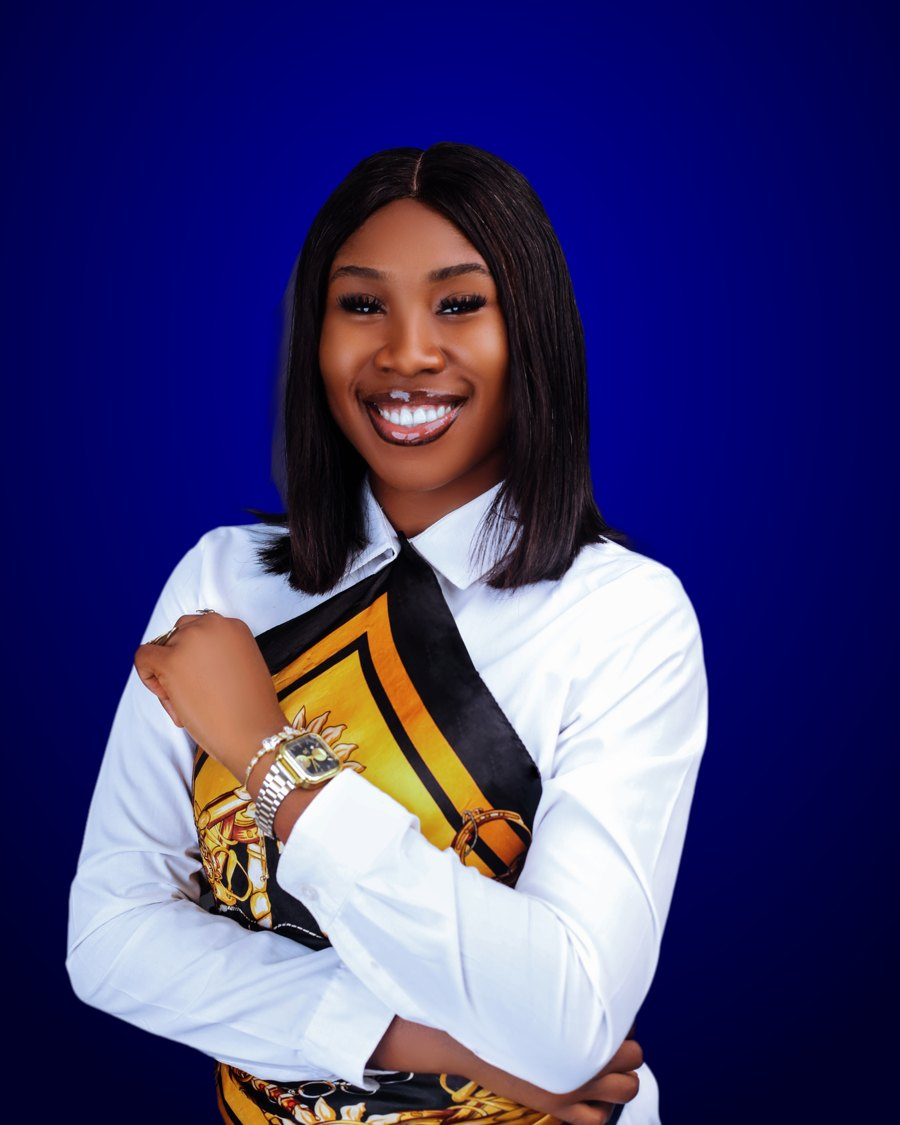
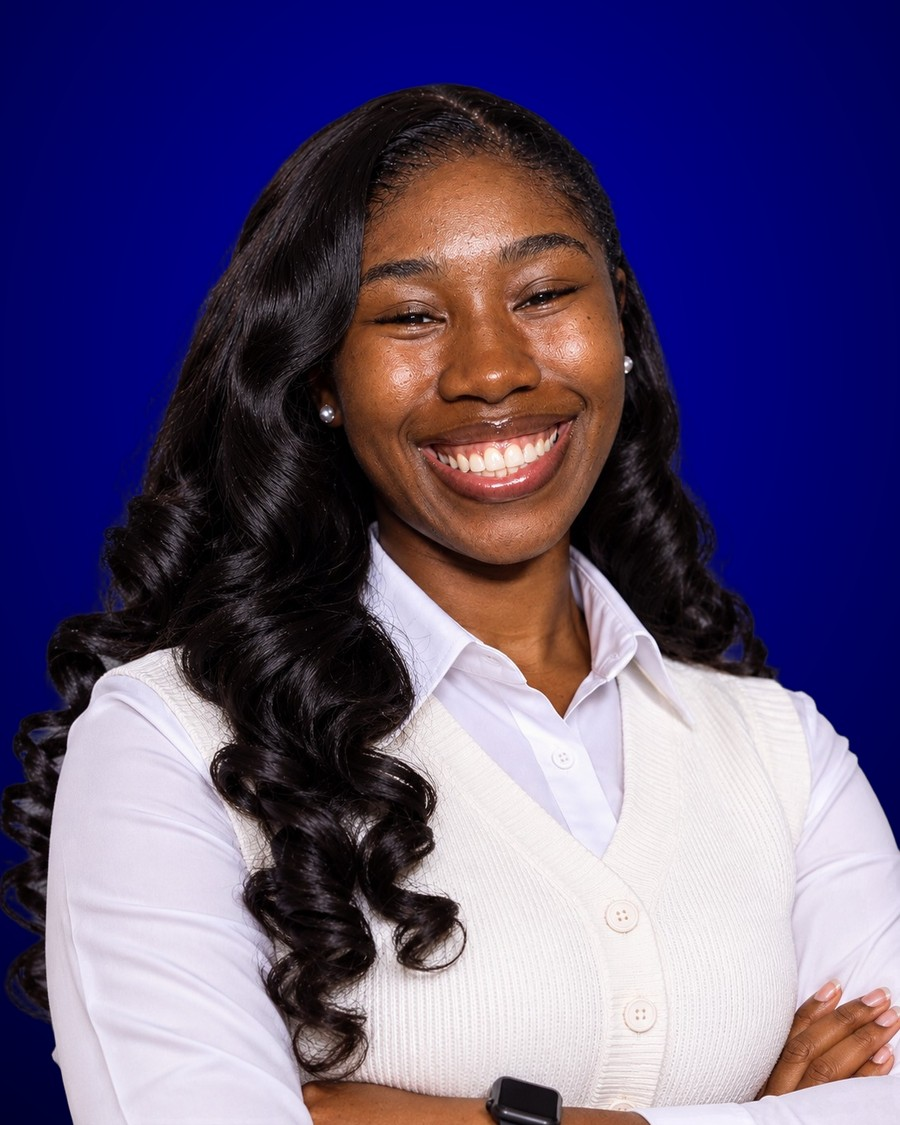
Update headshot and align portfolio with LinkedIn
- New headshot on royal blue background
- Happivibe reframed around client support and retention calls
- Remove L. C. Obodo role and its 50% stat
- Sensory-Safe Cuts title is now Operations Supervisor
- Skill2Income title is now Onboarding & Digital Support Trainer
- Stat rows show 3 items (5+, 200+, 70%); 70% noted as own business
- Hide the empty CV button

Claude-Session: https://claude.ai/code/session_01M4Q3QznmXPooaf4SnWtG98

diff --git a/index.html b/index.html
@@ -71,7 +71,6 @@
       <div><b>5+</b><span>years in client-facing roles</span></div>
       <div><b>200+</b><span>students taught as a coach</span></div>
       <div><b>70%</b><span>revenue growth with a CRM I built</span></div>
-      <div><b>50%</b><span>less admin through automation</span></div>
     </div>
 
     <div class="sub">
@@ -114,7 +113,7 @@
       <div class="card story">
         <h2>Hi, I'm Claire. I keep customers <em>getting value.</em></h2>
         <p class="big">I've spent 5+ years in client-facing roles across customer support, client onboarding and operations: owning the relationship after the sale, making sure clients got what they were promised, and fixing the process when they didn't.</p>
-        <p>At Claire's Unique Cereals I built the CRM and ran the proactive follow-up that grew revenue by 70%. At L. C. Obodo and Co. I automated the admin that slowed the team down and cut overhead by 50%. That is the heart of Customer Success: know what each customer needs, watch the signals, and step in before a small gap turns into churn.</p>
+        <p>At Claire's Unique Cereals, my own business, I built the CRM and ran the proactive follow-up that grew revenue by 70%. That is the heart of Customer Success: know what each customer needs, watch the signals, and step in before a small gap turns into churn.</p>
         <p>As a coach at Skill2Income Academy, I've taught 200+ students the tools behind modern client work. In my case studies, I've designed health scores, customer segments and CSM automations in HubSpot and Zoho CRM.</p>
       </div>
       <div class="card quote-card">
@@ -144,7 +143,6 @@
         <div><b>5+</b><span class="what">years in client-facing roles</span><small>Support · Onboarding · Ops</small></div>
         <div><b>200+</b><span class="what">students taught the tools behind modern client work</span><small>Skill2Income Academy</small></div>
         <div><b>70%</b><span class="what">revenue increase with proactive follow-up and a CRM I built</span><small>Claire's Unique Cereals</small></div>
-        <div><b>50%</b><span class="what">cut in admin overhead through process automation</span><small>L. C. Obodo and Co.</small></div>
       </div>
     </div>
   </div>
@@ -354,10 +352,9 @@
     </div>
     <div class="exp-wrap">
       <ol class="roles">
-        <li><span class="when">Jan 2026 – Now</span><div><h3>VA Coach and Digital Support Trainer</h3><div class="org">Skill2Income Academy</div><p>Coach and teach 200+ students the digital and client-support tools they use with clients.</p></div></li>
-        <li><span class="when">Dec 2024 – Now</span><div><h3>Executive Assistant and Operations Supervisor</h3><div class="org">Sensory-Safe Cuts (non-profit)</div><p>Support leadership and keep day-to-day operations running.</p></div></li>
-        <li><span class="when">May 2020 – Oct 2025</span><div><h3>Call Handler and Student Lead Support</h3><div class="org">Happivibe Services</div><p>Handled inbound calls and supported student leads.</p></div></li>
-        <li><span class="when">Mar 2022 – Dec 2024</span><div><h3>Admin Assistant</h3><div class="org">L. C. Obodo and Co.</div><p>Cut admin overhead by 50% through process automation.</p></div></li>
+        <li><span class="when">Jan 2026 – Now</span><div><h3>Onboarding &amp; Digital Support Trainer</h3><div class="org">Skill2Income Academy · Contract, Remote</div><p>Train 200+ learners on CRM software, remote collaboration tools and documentation workflows. I run onboarding and live sessions end to end, and write walkthrough guides that turn complex technical steps into clear ones for non-technical users.</p></div></li>
+        <li><span class="when">Dec 2024 – Now</span><div><h3>Operations Supervisor</h3><div class="org">Sensory-Safe Cuts (non-profit)</div><p>Run day-to-day operations, scheduling and internal communication, and keep leadership and board members aligned with timely updates, meeting summaries and action-item trackers.</p></div></li>
+        <li><span class="when">May 2020 – Oct 2025</span><div><h3>Client Support and Retention Calls</h3><div class="org">Happivibe Services · Freelance</div><p>Trusted by clients to handle their inbound and outbound customer calls, resolving issues calmly and following up so their customers stayed satisfied and kept coming back. Later ran admissions support for a tech sales training company: qualified prospective students and guided applicants through enrolment, which helped improve admissions conversion.</p></div></li>
         <li><span class="when">Feb 2022 – Mar 2024</span><div><h3>Customer Support Rep and Marketing Lead</h3><div class="org">Claire's Unique Cereals</div><p>Built a CRM and ran proactive customer follow-up that grew revenue by 70%.</p></div></li>
       </ol>
       <div class="side-stack">

diff --git a/style.css b/style.css
@@ -193,16 +193,16 @@ h1 em, h2 em, .grad {
 
 /* ---------- Proof ---------- */
 .proof .glow.blue { width: 520px; height: 520px; left: 30%; top: 10%; opacity: .22; }
-.numbers { display: grid; grid-template-columns: repeat(4, 1fr); border: 1px solid var(--line); border-radius: var(--radius); background: rgba(0,0,46,.6); overflow: hidden; }
+.numbers { display: grid; grid-template-columns: repeat(3, 1fr); border: 1px solid var(--line); border-radius: var(--radius); background: rgba(0,0,46,.6); overflow: hidden; }
 .numbers > div { padding: 40px 30px; border-right: 1px solid var(--line); }
 .numbers > div:last-child { border-right: 0; }
 .numbers b { display: block; font-family: var(--sans); font-weight: 800; letter-spacing: -0.05em; font-size: clamp(3.4rem, 6vw, 5rem); line-height: 1; background: var(--grad); -webkit-background-clip: text; background-clip: text; color: transparent; margin-bottom: 18px; padding-right: .05em; }
 .numbers .what { color: #fff; font-weight: 500; line-height: 1.45; display: block; }
 .numbers small { display: block; margin-top: 14px; font-family: var(--mono); font-size: .7rem; letter-spacing: .12em; text-transform: uppercase; color: var(--muted); }
 @media (max-width: 900px) {
-  .numbers { grid-template-columns: 1fr 1fr; }
-  .numbers > div:nth-child(2) { border-right: 0; }
-  .numbers > div:nth-child(-n+2) { border-bottom: 1px solid var(--line); }
+  .numbers { grid-template-columns: 1fr; }
+  .numbers > div { border-right: 0; border-bottom: 1px solid var(--line); }
+  .numbers > div:last-child { border-bottom: 0; }
 }
 @media (max-width: 480px) {
   .numbers { grid-template-columns: 1fr; }
@@ -499,7 +499,7 @@ html, body { overflow-x: clip; }
 }
 .photo-tag i { width: 8px; height: 8px; border-radius: 50%; background: var(--lime); box-shadow: 0 0 10px var(--lime); }
 
-.stat-strip { display: grid; grid-template-columns: repeat(4, 1fr); gap: 14px; margin-top: 18px; }
+.stat-strip { display: grid; grid-template-columns: repeat(3, 1fr); gap: 14px; margin-top: 18px; }
 .stat-strip div { border: 1px solid var(--line); background: var(--surface); border-radius: 18px; padding: 22px 24px; }
 .stat-strip b { font-family: var(--sans); font-size: 2.2rem; font-weight: 800; letter-spacing: -0.04em; color: var(--lime); display: block; line-height: 1; margin-bottom: 8px; }
 .stat-strip span { color: var(--muted); font-size: .9rem; line-height: 1.4; display: block; }
@@ -573,6 +573,7 @@ html, body { overflow-x: clip; }
   .photo-card { order: -1; max-width: 260px; margin: 14px auto 0 14px; }
   .photo-tag { left: auto; right: -20px; bottom: 24px; }
   .stat-strip { grid-template-columns: 1fr 1fr; }
+  .stat-strip div:last-child { grid-column: span 2; }
   .tiles { grid-template-columns: 1fr 1fr; }
 }
 @media (max-width: 600px) {
@@ -590,3 +591,6 @@ html, body { overflow-x: clip; }
 .frame-inner .first-name { display: block; margin-bottom: 4px; }
 .frame-inner .status { margin-bottom: 26px; }
 .photo-card::before { inset: auto; top: -14px; left: -14px; background: none; filter: none; border-radius: 0; border-top-left-radius: 22px; }
+
+/* Hide buttons whose link is empty in config.js */
+[hidden] { display: none !important; }
